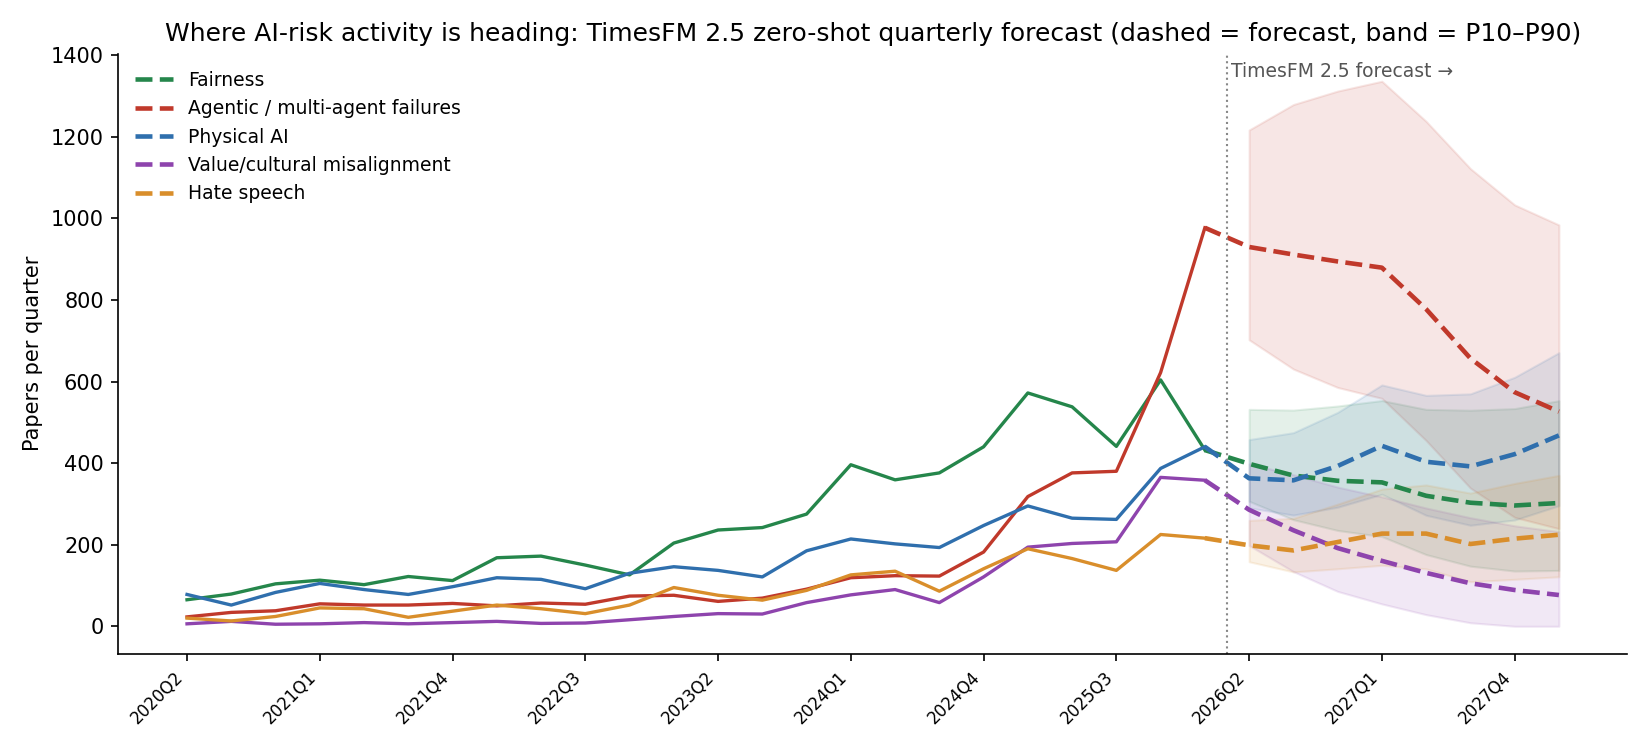
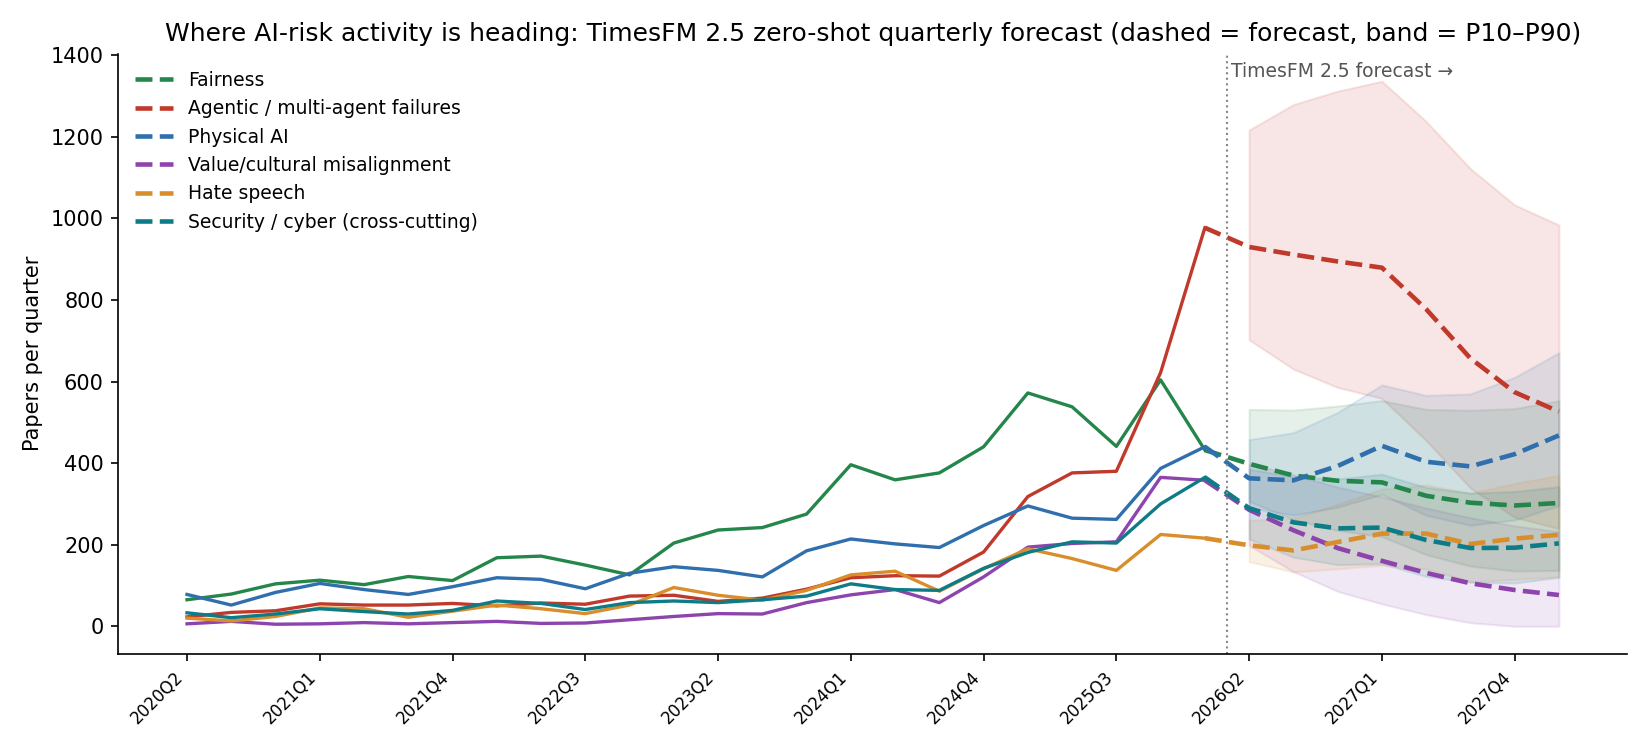
Risk forecast: add Security/cyber as a cross-cutting forecast category (keyword-derived n=3,376; TimesFM 6-series). Update Fig 1, table row, KPI, and derivation note

diff --git a/pages/risk_forecast.html b/pages/risk_forecast.html
@@ -54,7 +54,7 @@
 
   <div class="kpis">
     <div class="kpi"><div class="v">26,943</div><div class="l">risk records (1990&ndash;2026)</div></div>
-    <div class="kpi"><div class="v">5</div><div class="l">collected risk domains</div></div>
+    <div class="kpi"><div class="v">5&#8201;+&#8201;1</div><div class="l">domains + security cross-cut</div></div>
     <div class="kpi"><div class="v">8 q</div><div class="l">forecast horizon (2026Q2&ndash;2028Q1)</div></div>
     <div class="kpi"><div class="v">14,817</div><div class="l">recent papers scored (2024&ndash;26)</div></div>
     <div class="kpi"><div class="v">1,794</div><div class="l">existing L4 risk nodes</div></div>
@@ -108,6 +108,11 @@
           <td><span class="up">&#9650; steady growth</span></td>
         </tr>
         <tr>
+          <td><span class="chip" style="background:#0e7c86"></span>Security / cyber <span class="note">(cross-cutting)</span></td>
+          <td class="n">269</td><td class="n">290</td><td class="n">214&ndash;385</td><td class="n">203</td>
+          <td><span class="flat">&#8594; stable</span> (near-term rise, then easing)</td>
+        </tr>
+        <tr>
           <td><span class="chip" style="background:#d98e2b"></span>Hate speech</td>
           <td class="n">186</td><td class="n">198</td><td class="n">158&ndash;260</td><td class="n">224</td>
           <td><span class="flat">&#8594; stable</span></td>
@@ -125,6 +130,7 @@
       </tbody>
     </table>
     <p><b>Read:</b> the clearest signal is <b>agentic / multi-agent failures</b> &mdash; the only domain forecast well above its own recent run-rate (~930 vs 589 papers/quarter), after a 123&rarr;977 surge over the last eight quarters. <b>Physical AI</b> grows steadily; <b>fairness</b> and <b>value/cultural</b> work is past its peak in this corpus. The agentic band is also the widest, so the <i>level</i> is uncertain even though the <i>direction</i> is clear.</p>
+    <p class="note"><b>On the security / cyber line:</b> unlike the five collected domains, this is a <b>cross-cutting slice</b> derived by keyword-matching the whole corpus (cyber, adversarial, malware, vulnerability, exploit, jailbreak, poisoning, backdoor, malicious use, weaponisation, &hellip;; n=3,376). It therefore <b>overlaps</b> the other domains &mdash; most of its mass comes from agentic (1,636) and Physical AI (820) work &mdash; and is shown as an analytical lens, not an independent collection. It rose sharply (88&rarr;365 papers/quarter over the last two years); TimesFM projects a mild near-term rise (~290) then easing to ~203 by 2028Q1, within a wide 214&ndash;385 band.</p>
   </div>
 
   <!-- WHAT FORM -->
